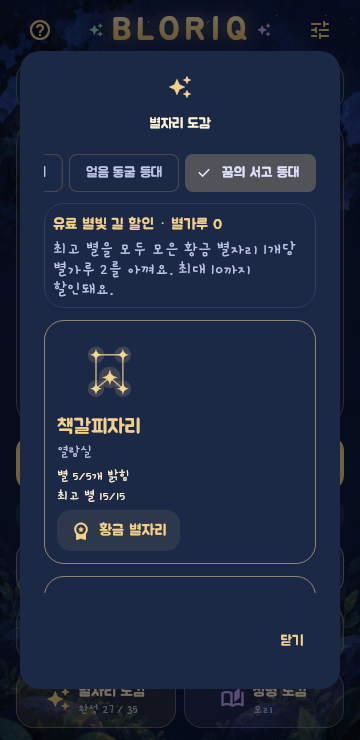
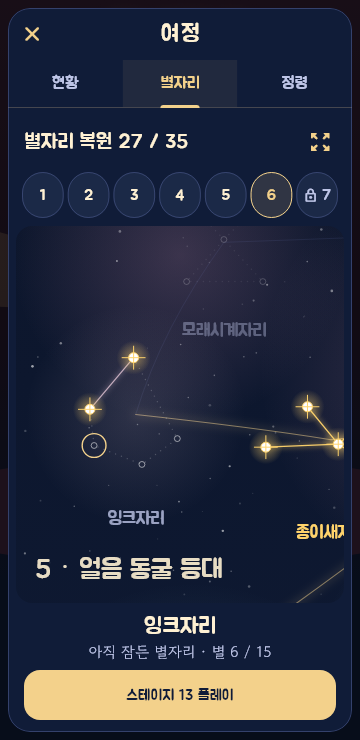
Fix star sky zoom culling and tab flips; space out the layout
별하늘을 캡처로 확인하며 찾은 문제를 고친다.

- 축소했을 때 별자리가 그려지지 않던 문제: 배율을 z축까지 같이 줄이지 않아
  다시 읽은 배율이 1로 나왔고, 화면에 보이는 범위를 좁게 계산해 별자리를 걸러 냈다.
- 오른쪽에 있는 버튼이나 별에 초점이 가면 여정이 옆 탭으로 넘어가던 문제:
  별하늘 탭을 움직이지 않는 가로 스크롤로 감싸 바깥 탭 화면이 따라 움직이지 않게 한다.
- 세계 이름과 윗줄 별자리가 겹치지 않게 띠 높이를 600으로 늘리고 자리를 옮긴다.
- 별이 너무 붙은 별자리는 누르는 자리(48)가 겹치지 않게 키운다.
- 세계 번호 일곱 개가 한 줄에 다 보이게 너비를 나눈다.
- 세계 이름은 화면 왼쪽에 붙어 따라오고, 멀리서 볼 때는 별자리 이름을 감춘다.
- 처음에는 이웃 별자리가 함께 보이도록 0.7배로 연다.
- 테스트: 별 175개의 누르는 자리 크기와 간격, 전체 보기 뒤에도 탭이 그대로인지 확인.
- docs/RESTRUCTURE_2026_11.md에 4단계를 적는다.

검증: flutter analyze 문제 없음, flutter test 2746개 통과,
validate_levels.py 캠페인 175판과 샘플 10판 통과, level_audit 세계 1~7 통과.

diff --git a/lib/app/journey_constellations.dart b/lib/app/journey_constellations.dart
@@ -87,7 +87,7 @@ class _JourneyConstellationsState extends State<JourneyConstellations>
         focus?.next;
     final onPlay = widget.onPlay;
 
-    Widget worldChip(SkyWorld world) {
+    Widget worldChip(SkyWorld world, double width) {
       final here = world.number == focus?.world;
       return Padding(
         padding: const EdgeInsets.symmetric(horizontal: 2),
@@ -98,8 +98,10 @@ class _JourneyConstellationsState extends State<JourneyConstellations>
           child: OutlinedButton(
             key: ValueKey('journey-sky-world-${world.number}'),
             style: OutlinedButton.styleFrom(
-              minimumSize: const Size(40, 46),
-              padding: const EdgeInsets.symmetric(horizontal: 6),
+              minimumSize: Size(width, 46),
+              maximumSize: Size(width, 46),
+              tapTargetSize: MaterialTapTargetSize.shrinkWrap,
+              padding: const EdgeInsets.symmetric(horizontal: 4),
               backgroundColor: here
                   ? colors.reward.withValues(alpha: .14)
                   : colors.surface,
@@ -118,16 +120,20 @@ class _JourneyConstellationsState extends State<JourneyConstellations>
               ),
             ),
             onPressed: () => _visit(data, world.number),
-            child: Row(
-              mainAxisSize: MainAxisSize.min,
-              children: [
-                if (!world.unlocked)
-                  const Padding(
-                    padding: EdgeInsets.only(right: 4),
-                    child: Icon(Icons.lock_outline_rounded, size: 15),
-                  ),
-                Text('${world.number}', style: GameTypography.label),
-              ],
+            // 큰 글자에서도 칸을 넘지 않게 줄여 넣는다.
+            child: FittedBox(
+              fit: BoxFit.scaleDown,
+              child: Row(
+                mainAxisSize: MainAxisSize.min,
+                children: [
+                  if (!world.unlocked)
+                    const Padding(
+                      padding: EdgeInsets.only(right: 4),
+                      child: Icon(Icons.lock_outline_rounded, size: 15),
+                    ),
+                  Text('${world.number}', style: GameTypography.label),
+                ],
+              ),
             ),
           ),
         ),
@@ -155,16 +161,28 @@ class _JourneyConstellationsState extends State<JourneyConstellations>
       ),
     );
 
-    // 일곱 개뿐이라 한 번에 다 만든다. 좁은 화면에서는 옆으로 민다.
+    // 일곱 세계가 한 줄에 다 보이게 너비를 나눈다. 아주 좁으면 옆으로 민다.
     final worlds = SizedBox(
       height: 46,
-      child: SingleChildScrollView(
-        key: const ValueKey('journey-sky-worlds'),
-        scrollDirection: Axis.horizontal,
-        padding: const EdgeInsets.symmetric(horizontal: 13),
-        child: Row(
-          children: [for (final world in data.worlds) worldChip(world)],
-        ),
+      child: LayoutBuilder(
+        builder: (context, area) {
+          const side = 12.0, gap = 4.0;
+          final count = data.worlds.length;
+          final shared = count == 0
+              ? 44.0
+              : (area.maxWidth - side * 2) / count - gap;
+          final width = shared < 38 ? 44.0 : shared;
+          return SingleChildScrollView(
+            key: const ValueKey('journey-sky-worlds'),
+            scrollDirection: Axis.horizontal,
+            padding: const EdgeInsets.symmetric(horizontal: side),
+            child: Row(
+              children: [
+                for (final world in data.worlds) worldChip(world, width),
+              ],
+            ),
+          );
+        },
       ),
     );
 
@@ -264,26 +282,38 @@ class _JourneyConstellationsState extends State<JourneyConstellations>
         final roomy =
             area.maxHeight >= 430 &&
             MediaQuery.textScalerOf(context).scale(10) <= 14;
-        if (roomy) {
-          return Column(
-            children: [
-              header,
-              worlds,
-              Expanded(child: sky),
-              panel,
-            ],
-          );
-        }
-        return ListView(
-          key: const PageStorageKey('journey-constellation-list'),
-          primary: false,
-          // 하늘 안에서 끄는 손짓은 하늘을 움직이므로, 시작 버튼을 하늘 위에 둔다.
-          children: [
-            header,
-            worlds,
-            panel,
-            SizedBox(height: 300, child: sky),
-          ],
+        final content = roomy
+            ? Column(
+                children: [
+                  header,
+                  worlds,
+                  Expanded(child: sky),
+                  panel,
+                ],
+              )
+            : ListView(
+                key: const PageStorageKey('journey-constellation-list'),
+                primary: false,
+                // 하늘 안에서 끄는 손짓은 하늘을 움직이므로, 시작 버튼을 하늘 위에 둔다.
+                children: [
+                  header,
+                  worlds,
+                  panel,
+                  SizedBox(height: 300, child: sky),
+                ],
+              );
+        // 오른쪽에 있는 별이나 버튼에 초점이 가면(화면 읽기, 키보드) 바깥의 탭 화면이
+        // 그 요소를 왼쪽 끝으로 끌어오려다 옆 탭으로 넘어간다. 움직이지 않는 가로
+        // 스크롤로 감싸면 바깥은 이 칸 전체만 보이게 하므로 탭이 넘어가지 않는다.
+        return SingleChildScrollView(
+          key: const ValueKey('journey-sky-guard'),
+          scrollDirection: Axis.horizontal,
+          physics: const NeverScrollableScrollPhysics(),
+          child: SizedBox(
+            width: area.maxWidth,
+            height: area.maxHeight,
+            child: content,
+          ),
         );
       },
     );

diff --git a/lib/constellation/star_sky.dart b/lib/constellation/star_sky.dart
@@ -98,18 +98,22 @@ class StarSkyData {
   StarSkyData._(this.worlds, this.size, this.firstStar);
 
   static const width = 900.0;
-  static const bandHeight = 540.0;
+  static const bandHeight = 600.0;
   static const _top = 280.0;
   static const _bottom = 110.0;
   static const _box = Size(232, 192);
 
+  /// 한 별자리 안에서 별과 별 사이에 둘 최소 거리. 누르는 자리(48)보다 넓다.
+  static const _starGap = 52.0;
+
   // 한 세계 안의 다섯 자리. 아래 줄 셋, 윗줄 둘로 빛길이 굽이친다.
+  // 윗줄은 세계 이름 아래에, 아랫줄의 별자리 이름은 다음 세계 이름 위에 오게 잡았다.
   static const _slots = [
-    Offset(.19, .76),
-    Offset(.50, .82),
+    Offset(.19, .74),
+    Offset(.50, .78),
     Offset(.81, .72),
-    Offset(.67, .30),
-    Offset(.33, .24),
+    Offset(.67, .31),
+    Offset(.33, .29),
   ];
 
   factory StarSkyData.of(
@@ -145,7 +149,25 @@ class StarSkyData {
       // 짝수 세계는 좌우를 뒤집어 길이 지그재그로 오른다.
       final at = _slots[slot % _slots.length];
       final x = world.isEven ? 1 - at.dx : at.dx;
-      final scale = .9 + random.nextDouble() * .18;
+      // 별이 너무 붙은 모양은 누르는 자리가 겹치지 않을 만큼 키운다.
+      var nearest = double.infinity;
+      for (final (a, first) in definition.nodes.indexed) {
+        for (final second in definition.nodes.skip(a + 1)) {
+          nearest = math.min(
+            nearest,
+            Offset(
+              (first.dx - second.dx) * _box.width,
+              (first.dy - second.dy) * _box.height,
+            ).distance,
+          );
+        }
+      }
+      final scale = math
+          .max(
+            .9 + random.nextDouble() * .18,
+            nearest.isFinite && nearest > 0 ? _starGap / nearest : 1.0,
+          )
+          .clamp(.9, 1.6);
       final box = Rect.fromCenter(
         center: Offset(
           band.left + band.width * x,
@@ -316,6 +338,7 @@ class StarSkyPainter extends CustomPainter {
     required this.selectedLevelId,
     required this.focus,
     required this.viewport,
+    required this.scale,
     required this.reduceMotion,
     super.repaint,
   });
@@ -332,9 +355,15 @@ class StarSkyPainter extends CustomPainter {
 
   /// 지금 화면에 보이는 영역(별하늘 좌표). 별똥별을 이 안에 떨어뜨린다.
   final ValueGetter<Rect> viewport;
+
+  /// 지금 배율. 멀리서 볼 때는 읽을 수 없는 별자리 이름을 감춘다.
+  final ValueGetter<double> scale;
   final bool reduceMotion;
 
   static const _gold = Color(0xffffd36b);
+
+  /// 이보다 멀리서 보면 별자리 이름이 너무 작아 감춘다.
+  static const _nameScale = .5;
 
   @override
   void paint(Canvas canvas, Size size) {
@@ -347,9 +376,13 @@ class StarSkyPainter extends CustomPainter {
     _firstStar(canvas, now);
     for (final world in data.worlds) {
       if (!world.band.inflate(80).overlaps(seen)) continue;
+      // 세계 이름은 옆으로 움직여도 화면 왼쪽에 붙어 따라온다.
       labels['w${world.number}']?.paint(
         canvas,
-        Offset(28, world.band.top + 22),
+        Offset(
+          math.max(28.0, viewport().left + 14 / scale()),
+          world.band.top + 22,
+        ),
       );
       for (final item in world.constellations) {
         if (item.box.inflate(60).overlaps(seen)) {
@@ -660,7 +693,7 @@ class StarSkyPainter extends CustomPainter {
     }
 
     final label = labels['c${item.index}'];
-    if (label != null) {
+    if (label != null && scale() >= _nameScale) {
       label.paint(
         canvas,
         Offset(item.center.dx - label.width / 2, item.box.bottom + 10),
@@ -844,7 +877,8 @@ class StarSkyState extends State<StarSky> with TickerProviderStateMixin {
         0,
         1,
       )
-      ..scaleByDouble(scale, scale, 1, 1);
+      // 세 축을 같이 줄여야 배율을 다시 읽을 때 1로 잘못 나오지 않는다.
+      ..scaleByDouble(scale, scale, scale, 1);
   }
 
   double get _scale => _camera?.value.getMaxScaleOnAxis() ?? _startScale;
@@ -985,6 +1019,7 @@ class StarSkyState extends State<StarSky> with TickerProviderStateMixin {
                           selectedLevelId: widget.selectedLevelId,
                           focus: widget.focus,
                           viewport: () => _seen,
+                          scale: () => _scale,
                           reduceMotion: widget.reduceMotion,
                           repaint: Listenable.merge([_clock, _intro, camera]),
                         ),

diff --git a/test/world_shelves_test.dart b/test/world_shelves_test.dart
@@ -1,3 +1,5 @@
+import 'dart:math' as math;
+
 import 'package:flutter/material.dart';
 import 'package:flutter/services.dart';
 import 'package:flutter_test/flutter_test.dart';
@@ -76,6 +78,25 @@ void main() {
       );
     }
     expect(releaseKey('journey-stage-1').hitTestable(), findsOneWidget);
+
+    // 별 175개가 모두 하늘에 있고, 누르는 자리가 서로 겹쳐 가려지지 않는다.
+    final centers = <Offset>[];
+    for (var world = 1; world <= 7; world++) {
+      for (var stage = 1; stage <= 25; stage++) {
+        final star = releaseKey('journey-stage-${(world - 1) * 100 + stage}');
+        expect(star, findsOneWidget);
+        expect(tester.getSize(star), const Size(48, 48));
+        centers.add(tester.getCenter(star));
+      }
+    }
+    var nearest = double.infinity;
+    for (var a = 0; a < centers.length; a++) {
+      for (var b = a + 1; b < centers.length; b++) {
+        nearest = math.min(nearest, (centers[a] - centers[b]).distance);
+      }
+    }
+    // 화면에는 0.7배로 보인다. 별하늘 좌표로는 누르는 자리(48)보다 멀리 떨어져 있다.
+    expect(nearest / .7, greaterThan(48));
     await closeReleaseApp(tester);
   });
 }

diff --git a/test/journey_panel_test.dart b/test/journey_panel_test.dart
@@ -112,8 +112,13 @@ void main() {
     await _captureJourney(tester, boundary, 'constellations');
     // 물러나면 일곱 세계가 한 하늘에 이어져 보인다.
     await tapVisible(tester, releaseKey('journey-sky-overview'));
-    expect(find.text('별자리 복원 35 / 35'), findsOneWidget);
+    // 오른쪽 끝 버튼에 초점이 가도 옆 탭으로 넘어가지 않는다.
+    expect(releaseKey('star-sky').hitTestable(), findsOneWidget);
+    expect(find.text('별자리 복원 35 / 35').hitTestable(), findsOneWidget);
     await _captureJourney(tester, boundary, 'sky-overview');
+    // 세계 번호를 누르면 다시 그 세계로 다가간다.
+    await tapVisible(tester, releaseKey('journey-sky-world-7'));
+    expect(find.text('7 다시 도전').hitTestable(), findsNothing);
 
     // 정령 탭에는 능력을 가진 다섯 명만 있다.
     await tapVisible(tester, _tab('spirits'));

diff --git a/docs/RESTRUCTURE_2026_11.md b/docs/RESTRUCTURE_2026_11.md
@@ -9,7 +9,7 @@
 | 1 | 주간 별자리, 칭호·이동 잔영 표시 제거. 게임 화면을 보드 중심으로 정리 | 완료 (`10b39a0`) |
 | 2 | echo 필터를 넣은 시험용 판 10개 | 완료. 사람이 해 보고 판단할 차례 |
 | 3 | 능력 정령 다섯만 남기고, 재화를 별 하나로 정리 | 완료 |
-| 4 | 일곱 세계를 한 장으로 잇는 별하늘 | 아직 |
+| 4 | 일곱 세계를 한 장으로 잇는 별하늘 | 완료 |
 | 5 | 캠페인 판 교체 | 2단계 판을 해 본 뒤 결정 |
 
 ## 2단계: echo 샘플 판
@@ -45,6 +45,21 @@
 - 화면에 보이는 재화는 별뿐이다. 경험치, 별지기 레벨, 별가루, 보상 트랙, 업적 목록을 화면에서 뺐다.
 - 힌트(별빛 길)는 값이 없다. 쓴 판은 별 2개까지 받는다(`StarlightPathSource.capped`).
 - 아스테르가 합류하면 판마다 첫 별빛 길은 별이 줄지 않는다(`StarlightPathSource.free`). 맨손 별과 "도움 없이" 도전 과제는 그래도 받지 못한다. 한 번 썼다는 사실은 판을 깰 때까지 저장되어 다시 시작해도 되살아나지 않는다.
+
+## 4단계: 별하늘
+
+여정의 "별자리" 탭을 한 장의 별하늘로 바꿨다(`lib/constellation/star_sky.dart`, `lib/app/journey_constellations.dart`).
+
+- 배치: 세계 1이 맨 아래에 있고 빛길을 따라 올라가 맨 위의 첫 별에 닿는다. 세계마다 띠 하나(높이 600)에 별자리 다섯을 아래 줄 셋, 윗줄 둘로 놓는다. 짝수 세계는 좌우를 뒤집어 길이 지그재그로 오른다.
+- 조작: 손가락으로 움직이고 두 손가락으로 확대한다. 별을 누르면 판을 고르고 아래 칸의 버튼으로 시작한다. 위의 세계 번호를 누르면 그 세계로 옮겨 가고, 오른쪽 위 버튼은 하늘 전체를 보여 준다. 홈 하늘의 별자리를 눌러도 열린다.
+- 모션: 잔별 반짝임, 완성한 구간의 빛길을 흐르는 빛, 열 때 선이 그려지는 연출, 황금 별자리의 선을 따라 도는 반짝임, 고른 별의 맥동, 아홉 초마다 별똥별, 첫 별의 숨쉬기. 모션 줄이기에서는 모두 멈춘다.
+- 모양: 판과 짝인 별 다섯은 그대로 두고, 별자리마다 흐린 장식 별 여덟 개와 크기 차이를 준다. 별이 너무 붙은 모양은 누르는 자리(48)가 겹치지 않게 키운다.
+- 첫 별: 모든 별 가운데 켠 비율만큼 빛이 차오른다.
+- 멀리서 볼 때(배율 0.5 미만)는 별자리 이름을 감춘다. 세계 이름은 화면 왼쪽에 붙어 따라온다.
+- 여정의 탭은 눌러서만 바꾼다. 별하늘을 좌우로 움직여야 하기 때문이다.
+- 탭 넘어감 방지: 오른쪽에 있는 별이나 버튼에 초점이 가면(화면 읽기, 키보드) 바깥의 탭 화면이 그 요소를 왼쪽 끝으로 끌어오다 옆 탭으로 넘어갔다. 별하늘 탭을 움직이지 않는 가로 스크롤(`journey-sky-guard`)로 감싸 막았다.
+- 낮은 화면이나 큰 글자에서는 시작 버튼을 하늘 위에 두고 탭 전체를 스크롤한다. 하늘 안에서 끄는 손짓은 하늘을 움직이기 때문이다.
+- 아직 없는 것: 세계 2~7에서 별자리를 완성한 순간의 연출. 결과 팝업의 별자리 그림은 세계 1에만 있다.
 
 ## 일부러 남겨 둔 것
 
